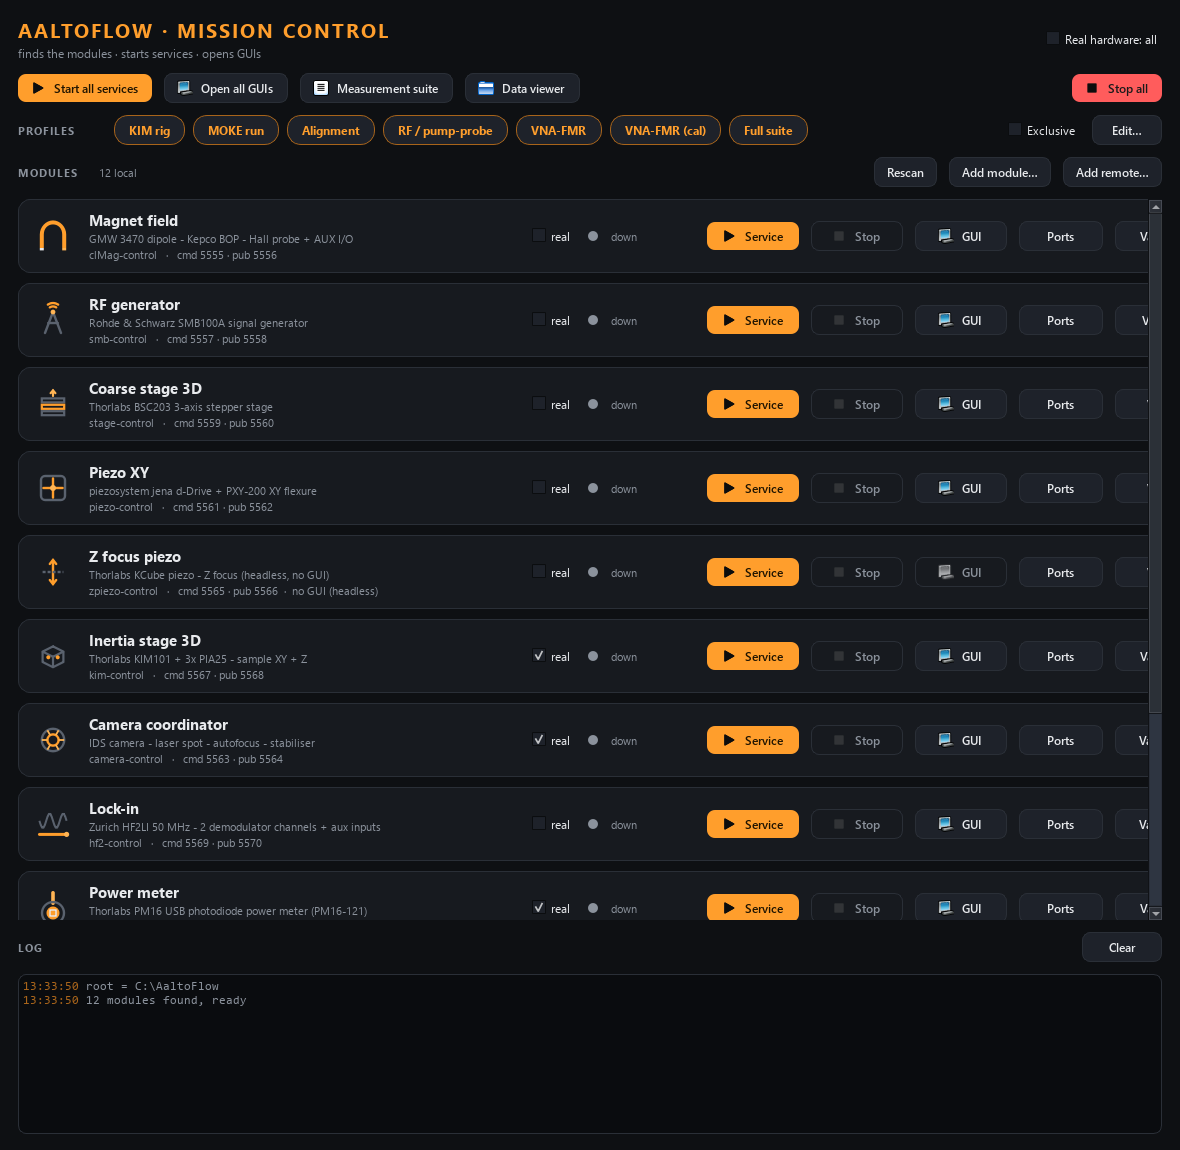
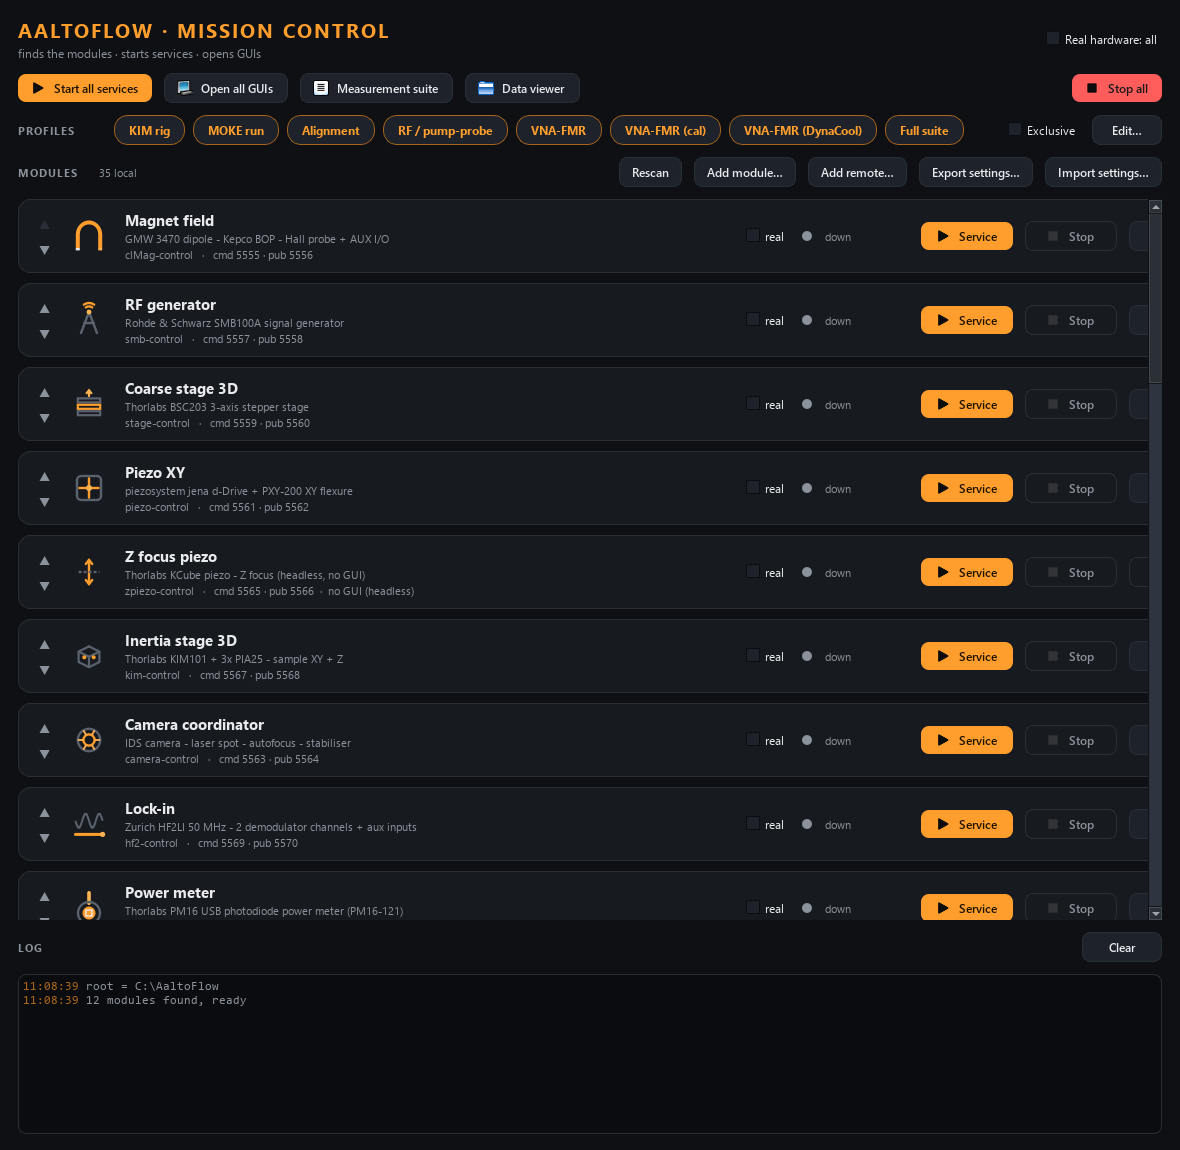
Mission Control: move module cards up and down (most-used on top)
Up/down arrows on every card, and a right-click menu with Move to top,
Move to bottom and Reset order. The order is this PC's choice, saved in
suite_local.json (settings.card_order) and carried by Export/Import
settings. Display only: services still start in dependency order.

diff --git a/mission-control/mission_control.py b/mission-control/mission_control.py
@@ -74,6 +74,8 @@ ROOT = default_root()
 #: The last `describe` seen from each module, so the variables stay visible
 #: while a service is down. Local machine state, not committed.
 CACHE_DIR = ROOT / ".suite_cache"
+# suite_local.json settings key: this PC's display order of the module cards
+CARD_ORDER_SETTING = "card_order"
 
 # How we launch each project:
 #   * SERVICES run with the project's OWN venv python (.venv\Scripts\python.exe)
@@ -1209,6 +1211,24 @@ class ModuleCard(QtWidgets.QFrame):
         row = QtWidgets.QHBoxLayout(); row.setSpacing(12)
         outer.addLayout(row)
 
+        # Move the card up / down the list, so the modules used most sit at
+        # the top. The order is this PC's choice (suite_local.json, see
+        # MainWindow.move_card); right-click the card for top / bottom / reset.
+        # Only the DISPLAY order changes: services still start in dependency
+        # order (start_after), e.g. camera after kim.
+        arrows = QtWidgets.QVBoxLayout(); arrows.setSpacing(2)
+        self.btn_up = QtWidgets.QToolButton(); self.btn_up.setText("▲")
+        self.btn_down = QtWidgets.QToolButton(); self.btn_down.setText("▼")
+        self.btn_up.setToolTip("Move this module up (right-click the card: top / bottom / reset)")
+        self.btn_down.setToolTip("Move this module down (right-click the card: top / bottom / reset)")
+        for b, where in ((self.btn_up, "up"), (self.btn_down, "down")):
+            b.setObjectName("move")                 # styled in theme.build_stylesheet
+            b.setAutoRaise(True); b.setFixedSize(24, 22)
+            b.setCursor(QtCore.Qt.PointingHandCursor)
+            b.clicked.connect(lambda _=False, w=where: self.win.move_card(self.spec.id, w))
+            arrows.addWidget(b)
+        row.addLayout(arrows)
+
         self.icon = QtWidgets.QLabel(); self.icon.setFixedWidth(44)
         row.addWidget(self.icon)
 
@@ -1284,6 +1304,27 @@ class ModuleCard(QtWidgets.QFrame):
         self.set_up(False)
 
     # ---- identity ---------------------------------------------------------
+
+    def contextMenuEvent(self, event):
+        """Right-click on a card: move it to the top / bottom, or forget the
+        custom order and go back to the modules' own order."""
+        menu = QtWidgets.QMenu(self)
+        top = menu.addAction("Move to top")
+        bottom = menu.addAction("Move to bottom")
+        menu.addSeparator()
+        reset = menu.addAction("Reset order (the modules' own order)")
+        reset.setEnabled(self.win.has_custom_order())
+        chosen = menu.exec(event.globalPos())
+        if chosen is top:
+            self.win.move_card(self.spec.id, "top")
+        elif chosen is bottom:
+            self.win.move_card(self.spec.id, "bottom")
+        elif chosen is reset:
+            self.win.reset_card_order()
+
+    def set_move_enabled(self, can_up: bool, can_down: bool):
+        self.btn_up.setEnabled(can_up)
+        self.btn_down.setEnabled(can_down)
 
     @property
     def owns_service(self) -> bool:
@@ -1806,7 +1847,7 @@ class MainWindow(QtWidgets.QMainWindow):
                 if not first:
                     self.log(f"module gone: {mid}")
 
-        for i, spec in enumerate(self.found.modules):
+        for spec in self.found.modules:
             card = self.cards.get(spec.id)
             if card is None:
                 card = ModuleCard(spec, self)
@@ -1815,8 +1856,7 @@ class MainWindow(QtWidgets.QMainWindow):
                     self.log(f"module found: {spec.id} ({spec.name})")
             else:
                 card.set_spec(spec)
-            self.vlist.removeWidget(card)
-            self.vlist.insertWidget(i, card)
+        self.layout_cards()
 
         self.prober.set_targets([(m.id, m.host, m.cmd) for m in self.found.modules])
         self.prober.probe_now()
@@ -1837,6 +1877,57 @@ class MainWindow(QtWidgets.QMainWindow):
                 self.log(p, "warn")
         self.build_profile_bar()
         self.sync_all_box()
+
+    # ---- card order (Lukas: "the most commonly used modules up there") ------
+    #
+    # The order is a list of card ids kept in suite_local.json under
+    # settings.card_order -- a per-PC choice (the lab PC and the office PC can
+    # differ), carried along by Export / Import settings. Ids in the list come
+    # first, in that order; every other module (new, or never moved) follows
+    # in the modules' own order (module.toml `order`). An id whose module is
+    # gone is simply skipped, so an old list never breaks anything.
+
+    def custom_order(self) -> list[str]:
+        order = get_setting(CARD_ORDER_SETTING, [], ROOT)
+        return [x for x in order if isinstance(x, str)] if isinstance(order, list) else []
+
+    def has_custom_order(self) -> bool:
+        return bool(self.custom_order())
+
+    def ordered_modules(self) -> list:
+        rank = {mid: i for i, mid in enumerate(self.custom_order())}
+        own = {m.id: i for i, m in enumerate(self.found.modules)}
+        return sorted(self.found.modules,
+                      key=lambda m: (0, rank[m.id]) if m.id in rank else (1, own[m.id]))
+
+    def layout_cards(self):
+        """Put the cards in the list in display order and grey out the arrow
+        that would move a card past either end."""
+        shown = [m for m in self.ordered_modules() if m.id in self.cards]
+        for i, spec in enumerate(shown):
+            card = self.cards[spec.id]
+            self.vlist.removeWidget(card)
+            self.vlist.insertWidget(i, card)
+            card.set_move_enabled(i > 0, i < len(shown) - 1)
+
+    def move_card(self, mid: str, where: str):
+        """where: 'up', 'down', 'top' or 'bottom'. Saves the whole resulting
+        order, so the list means exactly what is on screen."""
+        ids = [m.id for m in self.ordered_modules()]
+        if mid not in ids:
+            return
+        i = ids.index(mid)
+        ids.pop(i)
+        j = {"up": max(i - 1, 0), "down": min(i + 1, len(ids)),
+             "top": 0, "bottom": len(ids)}[where]
+        ids.insert(j, mid)
+        set_setting(CARD_ORDER_SETTING, ids, ROOT)
+        self.layout_cards()
+
+    def reset_card_order(self):
+        set_setting(CARD_ORDER_SETTING, None, ROOT)
+        self.layout_cards()
+        self.log("card order reset to the modules' own order")
 
     def _on_probed(self, result: dict):
         for mid, up in result.items():

diff --git a/mission-control/tests/test_launcher.py b/mission-control/tests/test_launcher.py
@@ -532,3 +532,63 @@ def test_a_service_refused_its_address_says_so_on_the_card(env, lockdir, monkeyp
         script.write_text("")
         card.busy = None
         card.show_hw()
+
+
+# ---- card order (move the most-used modules to the top) --------------------
+
+def _shown(mc, win):
+    """Card ids top-to-bottom as they sit in the list on screen."""
+    out = []
+    for i in range(win.vlist.count()):
+        w = win.vlist.itemAt(i).widget()
+        if isinstance(w, mc.ModuleCard):
+            out.append(w.spec.id)
+    return out
+
+
+def test_cards_can_be_moved_and_the_order_is_remembered(env):
+    mc, win, root, app = env
+    win.reset_card_order()
+    own = [m.id for m in win.found.modules]          # the modules' own order
+    assert _shown(mc, win) == own and len(own) >= 3
+    a, b, c = own[0], own[1], own[2]
+    # the top card cannot go further up, the bottom one not further down
+    assert not win.cards[own[0]].btn_up.isEnabled() and win.cards[own[0]].btn_down.isEnabled()
+    assert not win.cards[own[-1]].btn_down.isEnabled()
+
+    win.cards[c].btn_up.click()                      # third card one place up
+    assert _shown(mc, win)[:3] == [a, c, b]
+    win.move_card(b, "top")
+    assert _shown(mc, win)[:3] == [b, a, c]
+    win.move_card(b, "bottom")
+    assert _shown(mc, win)[-1] == b
+
+    # remembered on this PC (suite_local.json) and survives a fresh rescan
+    saved = json.loads((root / "suite_local.json").read_text("utf-8"))["settings"]["card_order"]
+    assert saved == _shown(mc, win)
+    win.rescan(force=True)
+    assert _shown(mc, win) == saved
+    # starting services does NOT follow the display order
+    assert [x.spec.id for x in win.local_cards()] == [m.id for m in win.found.modules
+                                                      if not m.remote]
+
+    win.reset_card_order()
+    assert _shown(mc, win) == own
+    assert "card_order" not in json.loads(
+        (root / "suite_local.json").read_text("utf-8")).get("settings", {})
+
+
+def test_a_stale_or_partial_order_never_breaks_the_list(env):
+    mc, win, root, app = env
+    # an id that no longer exists is skipped; modules missing from the saved
+    # list follow in their own order
+    mc.set_setting(mc.CARD_ORDER_SETTING, ["gone-module", "focus"], root)
+    win.layout_cards()
+    shown = _shown(mc, win)
+    own = [m.id for m in win.found.modules]
+    assert shown[0] == "focus" and "gone-module" not in shown
+    assert [x for x in shown if x != "focus"] == [x for x in own if x != "focus"]
+    mc.set_setting(mc.CARD_ORDER_SETTING, "not a list", root)
+    win.layout_cards()
+    assert sorted(_shown(mc, win)) == sorted(win.cards)
+    win.reset_card_order()

diff --git a/mission-control/theme.py b/mission-control/theme.py
@@ -91,6 +91,12 @@ QPushButton#primary:disabled, QPushButton#danger:disabled {{
     color:{c['muted']}; background:{c['panel']}; border:1px solid {c['border']}; }}
 QCheckBox {{ color:{c['text']}; }}
 QScrollArea {{ border:none; }}
+/* the move-up / move-down arrows on each module card: quiet until hovered,
+   and clearly dimmer when a card is already at the top or bottom */
+QToolButton#move {{ color:{c['muted']}; background:transparent; border:none;
+    border-radius:5px; font-size:13px; }}
+QToolButton#move:hover {{ color:{c['accent']}; background:{c['panel_hi']}; }}
+QToolButton#move:disabled {{ color:{c['border']}; }}
 """
 
 

diff --git a/mission-control/README.md b/mission-control/README.md
@@ -28,6 +28,11 @@ remembered after the service stops, marked "last seen".
   this way) follow. Clashes are refused.
 - Status dot: green = running and started here, amber = up but started
   elsewhere (or a reachable remote service), grey = down.
+- **Order**: the small up/down arrows on the left of a card move it, so the
+  modules you use most sit at the top. Right-click a card for *Move to top*,
+  *Move to bottom* and *Reset order*. The order is this PC's choice (saved in
+  `suite_local.json`) and only changes what you see: services still start in
+  the order they need (the camera after kim).
 
 ## Services on other PCs
 
@@ -40,7 +45,7 @@ card has a GUI button but no Start/Stop, since the service belongs to that PC.
 
 ## Where the choices are saved
 
-Ports, real/sim flags and remote services go in `../suite_local.json`, which is
+Ports, real/sim flags, the card order and remote services go in `../suite_local.json`, which is
 this PC's file (not in git). The measurement suite in scan-core reads the same
 file, which is how it follows the launcher. Profiles are in `profiles.json`
 next to this script.
